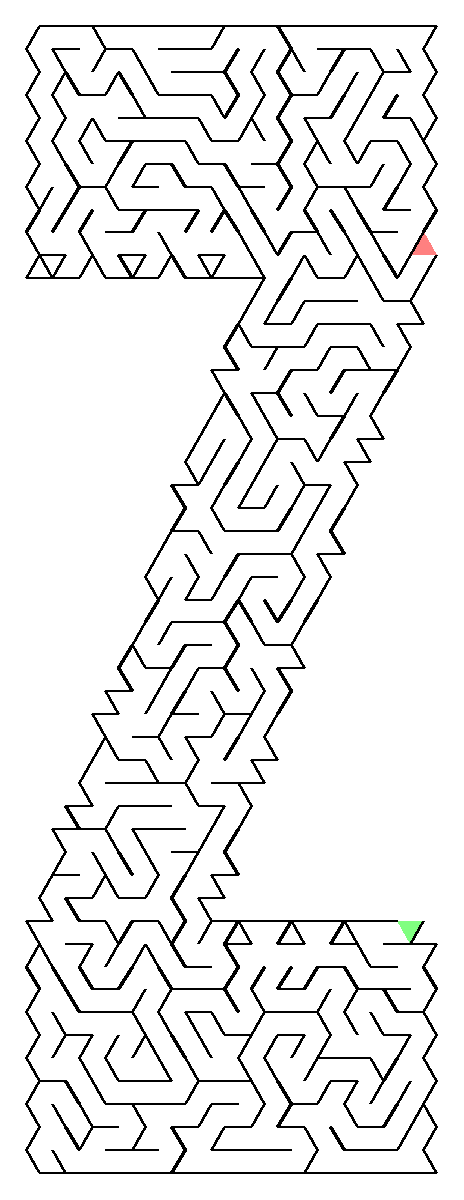
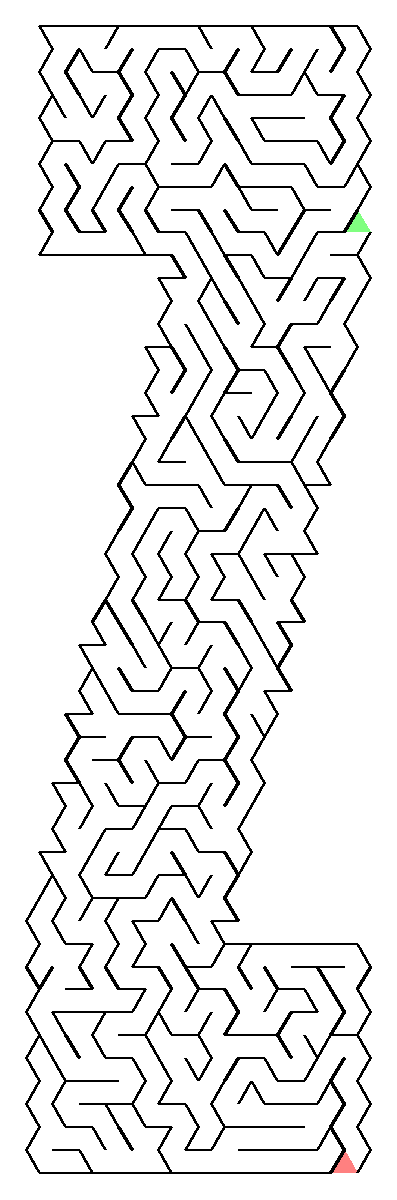
Replaced use of premade character images with a character image generator based on the impact font if it is available or an included font when impact is not available.
Demo updated to use upper and lower case letters.

Changed region(s): [[0.0605, 0.0, 0.937, 0.9867], [0.2116, 0.9558, 0.2418, 0.9867]]

diff --git a/shapemaze/gridmakers.py b/shapemaze/gridmakers.py
@@ -2,18 +2,17 @@ import os
 import random
 
 import PIL.Image
+import PIL.ImageDraw
+import PIL.ImageFont
 
 import shapes as _shapes
 import shapegrid as _shapegrid
 
 
 _base_dir = os.path.dirname(__file__)
-_content_dir = os.path.join(_base_dir, 'content')
+_content_dir = os.path.join(_base_dir, 'resources')
 _supershapes_dict = _shapes.supershapes_dict()
 
-
-# todo: try with IMPACT font which should be common and http://stackoverflow.com/a/5430111/377366
-#todo: from below code make a grid_from_textgrid
 
 def rectangle(vertical_shapes=40, horizontal_shapes=80, supershape=None):
     # provide defaults
@@ -27,50 +26,62 @@ def rectangle(vertical_shapes=40, horizontal_shapes=80, supershape=None):
     return grid
 
 
-        #if text_map:
-        #    for row, text_row in enumerate(text_map.splitlines()):
-        #        for col, char in enumerate(text_row):
-        #            if char == '#':
-        #                self._grid.create((row, col))
-        #elif vertical_shapes and horizontal_shapes:
-
-
 def character(c, max_vertical_indexes=None, max_horizontal_indexes=None,
               supershape=None,):
-    # get a copy of the relevant image
-    im = _character_images[c].copy()
     # provide defaults
     supershape = supershape or random.choice(_supershapes_dict.values())
     max_vertical_indexes = max_vertical_indexes or 50
     max_horizontal_indexes = max_horizontal_indexes or 30
+    # get an image of the character
+    c_image = _character_image(c)
+    # convert the image to a grid
+    return _image_white_to_grid(c_image, supershape,
+                                max_vertical_indexes, max_horizontal_indexes)
+
+
+def _character_image(c):
+    """Draw a white character on a black background."""
+    black = 0
+    white = 255
+    # font by WLM Fonts
+    # http://www.fontspace.com/wlm-fonts/wlm-carton
+    font_path = os.path.join(os.path.dirname(__file__),
+                             'resources', 'wlm_carton.ttf')
+    # make the background
+    image = PIL.Image.new('L', (300, 300), color=black)
+    # draw the text
+    draw = PIL.ImageDraw.Draw(image)
+    try:
+        font = PIL.ImageFont.truetype('impact.ttf', 200)  # has upper/lower case
+    except IOError:
+        font = PIL.ImageFont.truetype(font_path, 400)  # has only upper case
+    draw.text((10, 10), c, fill=white, font=font)
+    # isolate the text and return it
+    c_box = image.getbbox()
+    return image.crop(c_box)
+
+
+def _image_white_to_grid(image, supershape,
+                         max_vertical_indexes, max_horizontal_indexes):
+    """Convert the image to a grid."""
+    # make sure it is monochrom
+    if len(image.getbands()) != 1:
+        image = image.convert('L')
     # shrink the image with aspect
-    im.thumbnail((max_horizontal_indexes, max_vertical_indexes),
-                 PIL.Image.ANTIALIAS)
+    image.thumbnail((max_horizontal_indexes, max_vertical_indexes),
+                    PIL.Image.ANTIALIAS)
     # convert to black/white
-    im = im.convert('1')
+    threshold = 128
+    image = image.point(lambda i: 255 * (i > threshold))
     # get the pixels and build the grid based on each pixel's position and value
-    pixels = im.load()
+    pixels = image.load()
     grid = _shapegrid.ShapeGrid(supershape)
-    width, height = im.size
+    width, height = image.size
     for y in range(height):
         for x in range(width):
-            if not pixels[x, y]:
+            if pixels[x, y]:
                 grid.create((y, x))
     return grid
-
-
-def _character_images():
-    character_dir = os.path.join(_content_dir, 'letter_images')
-    character_images = {}
-    print character_dir
-    for name in os.listdir(character_dir):
-        full_path = os.path.join(character_dir, name)
-        if name[-3:] == 'png':
-            c = name[:1]
-            im = PIL.Image.open(full_path)
-            character_images[c] = im
-    return character_images
-_character_images = _character_images()
 
 
 if __name__ == '__main__':

diff --git a/demo.py b/demo.py
@@ -10,7 +10,7 @@ def demo():
 
 def use_mazemakers():
     # use customizeable mazemakers for easy-to-make mazes with random shapes
-    for c, maze in smz.mazemakers.string_to_mazes('MAZE'):
+    for c, maze in smz.mazemakers.string_to_mazes('Maze'):
         image = maze.image()
         filename = 'Demo - easy {}.png'.format(c)
         image.save(filename, 'PNG', **image.info)
